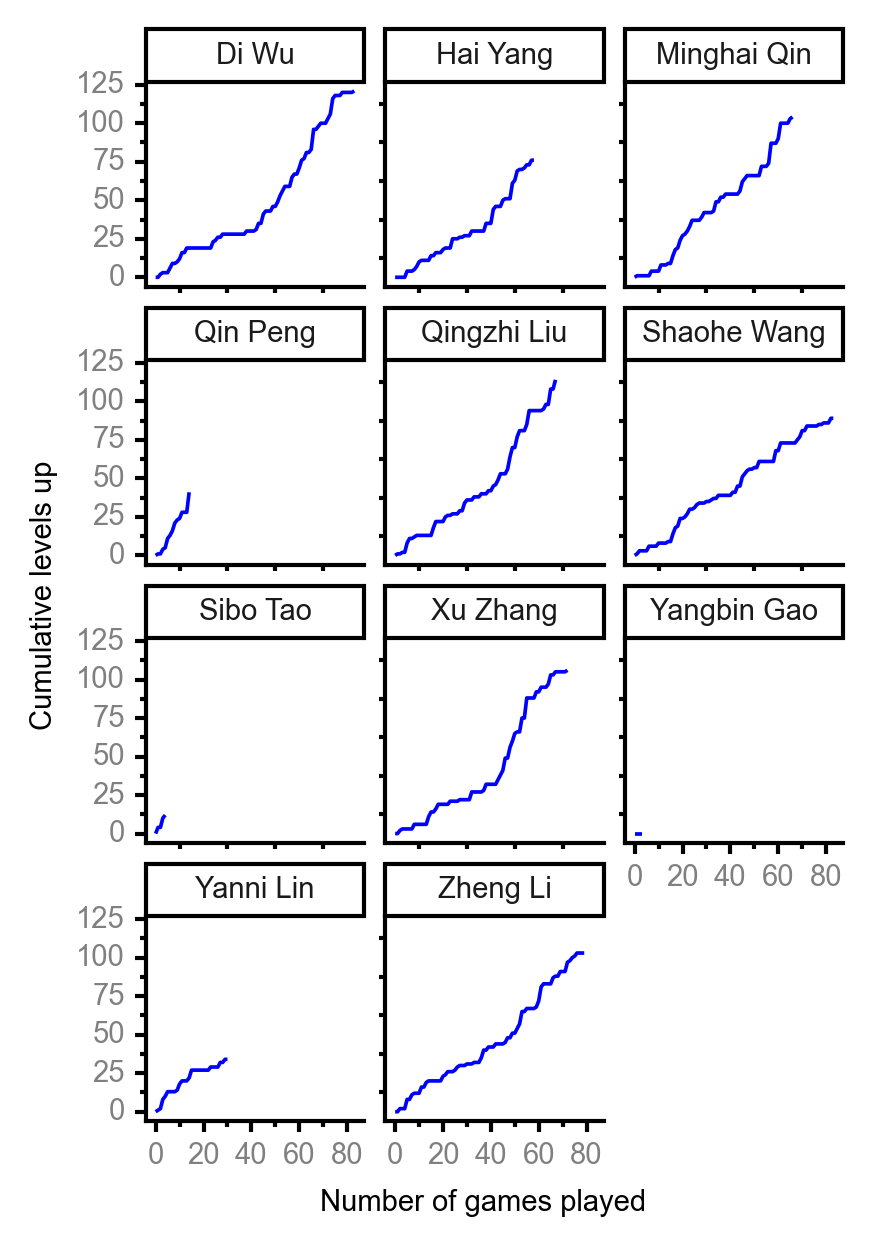
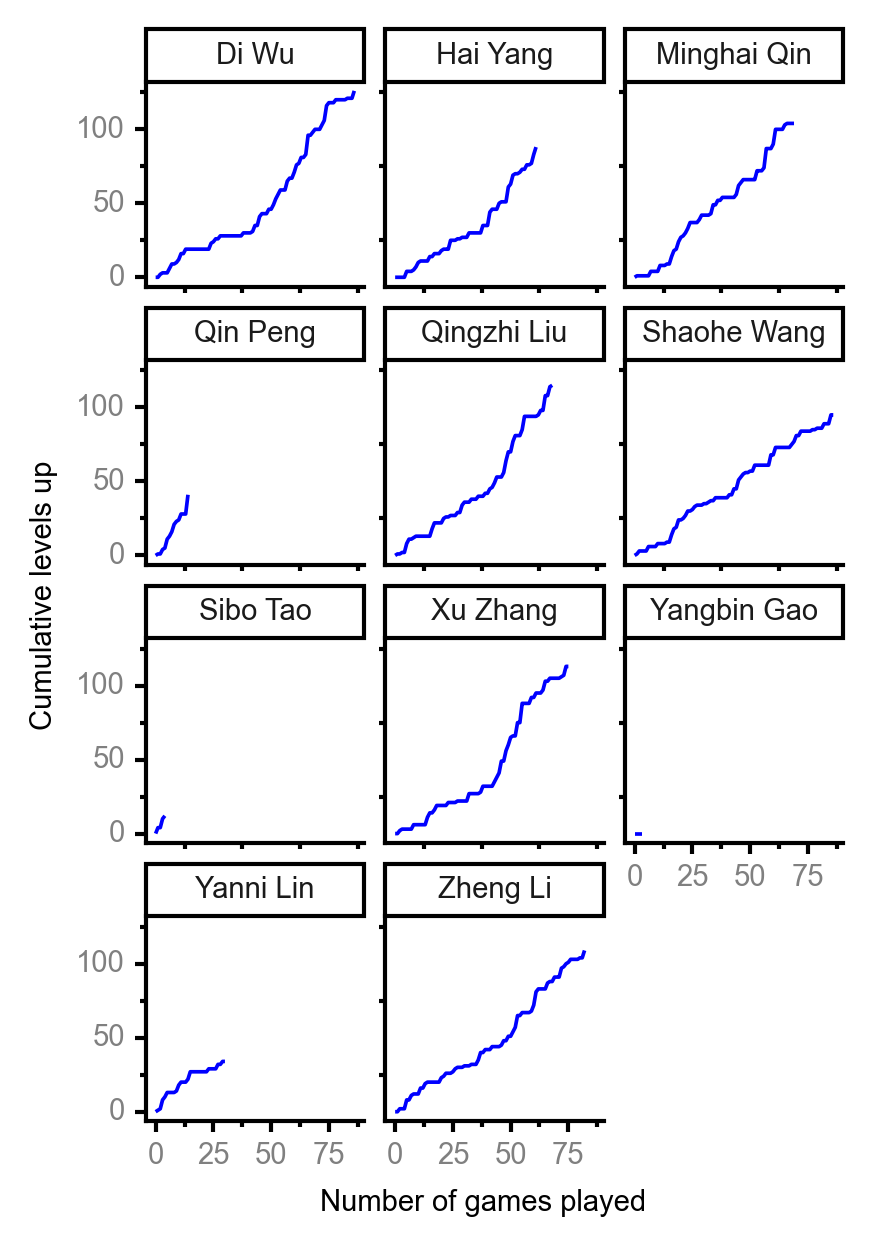
update player stats

diff --git a/player_stats.md b/player_stats.md
@@ -10,13 +10,13 @@ date: 2020-12-23
 
 | <br><br><br>Rank | <br><br><br>Player | <br> Lifetime <br> levels <br> up | <br><br> Winning <br> rate | <br> Average <br> levels <br> up | <br> Total <br> games <br> played | Games <br> played <br> as <br> MVP | Games <br> played <br> as <br> dealer | N_games <br> short <br> staffed <br> as dealer | Winning <br> rate <br> as <br> dealer |
 |:---:|:---:|:---:|:---:|:---:|:---:|:---:|:---:|:---:|:---:|
-| 1 | Di <br> Wu | 121 | 47.6% | 3.02 | 84 | 2 | 12 | 0 | 50.0% |
-| 2 | Qingzhi <br> Liu | 115 | 54.4% | 3.11 | 68 | 0 | 11 | 3 | 54.5% |
-| 3 | Xu <br> Zhang | 107 | 43.8% | 3.34 | 73 | 0 | 9 | 1 | 33.3% |
-| 4 | Minghai <br> Qin | 104 | 52.2% | 2.97 | 67 | 0 | 9 | 1 | 66.7% |
-| 5 | Zheng <br> Li | 103 | 53.8% | 2.40 | 80 | 0 | 14 | 0 | 57.1% |
-| 6 | Shaohe <br> Wang | 89 | 48.8% | 2.17 | 84 | 0 | 15 | 1 | 40.0% |
-| 7 | Hai <br> Yang | 76 | 44.1% | 2.92 | 59 | 1 | 8 | 1 | 37.5% |
+| 1 | Di <br> Wu | 126 | 47.1% | 3.07 | 87 | 2 | 13 | 1 | 46.2% |
+| 2 | Qingzhi <br> Liu | 115 | 55.1% | 3.03 | 69 | 0 | 11 | 3 | 54.5% |
+| 3 | Xu <br> Zhang | 113 | 44.7% | 3.32 | 76 | 0 | 9 | 0 | 33.3% |
+| 4 | Zheng <br> Li | 109 | 55.4% | 2.37 | 83 | 0 | 14 | 0 | 57.1% |
+| 5 | Minghai <br> Qin | 104 | 51.4% | 2.89 | 70 | 0 | 9 | 1 | 66.7% |
+| 6 | Shaohe <br> Wang | 95 | 49.4% | 2.21 | 87 | 0 | 16 | 1 | 37.5% |
+| 7 | Hai <br> Yang | 88 | 48.4% | 2.93 | 62 | 1 | 9 | 1 | 44.4% |
 | 8 | Qin <br> Peng | 41 | 80.0% | 3.42 | 15 | 1 | 2 | 0 | 100.0% |
 | 9 | Yanni <br> Lin | 34 | 41.9% | 2.62 | 31 | 0 | 3 | 1 | 66.7% |
 | 10 | Sibo <br> Tao | 14 | 80.0% | 3.50 | 5 | 0 | 0 | 0 | 0.0% |
